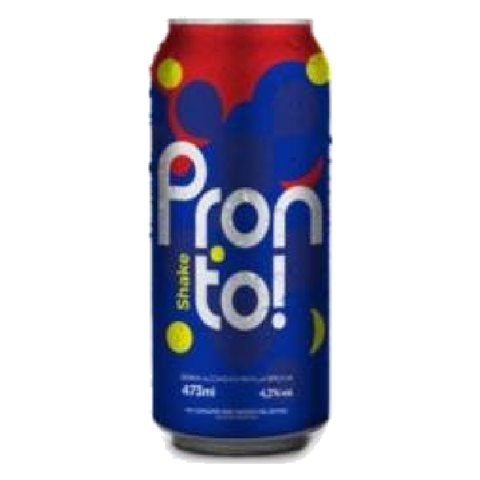
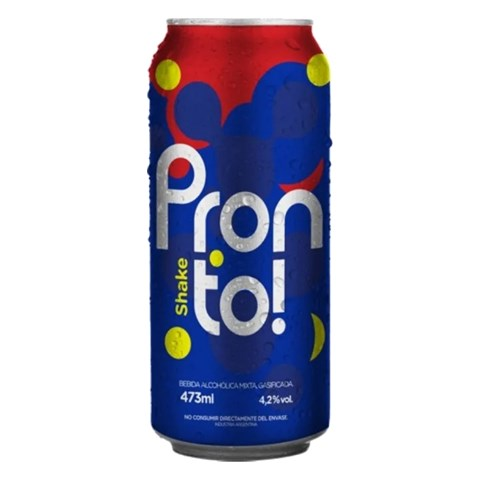
Cepas: fotos de Amarula 375, Pronto Shake lata, Dr Lemon Green Apple (lata y 1L), Red Berries lata y 1882 pomelo

Changed region(s): [[0.2812, 0.0312, 0.7188, 0.9688]]

diff --git a/catalogo-cepas.html b/catalogo-cepas.html
@@ -110,7 +110,7 @@ const esc = s => String(s).replace(/[&<>"]/g, c => ({'&':'&amp;','<':'&lt;','>':
 const fecha = iso => iso ? iso.split('-').reverse().join('/') : '';
 const limpiar = d => d.replace(/(\d)\?/g,'$1°').replace(/\s+/g,' ').trim();   // en Gescom el simbolo de grados llega como '?'
 const marca = d => ((d.match(/GANCIA|MARTINI|DR\.? ?LEMON|TERMA|TRES TORRES|AMARULA|BACARDI|FERNET|1882|PRONTO/i) || ['CEPAS'])[0].toUpperCase());
-const FOTOS_V = '2';   // cambiar cuando se reemplazan las fotos, para que el navegador no muestre las viejas
+const FOTOS_V = '3';   // cambiar cuando se reemplazan las fotos, para que el navegador no muestre las viejas
 const norm = s => String(s).normalize('NFD').replace(/[̀-ͯ]/g,'').toLowerCase();
 // Segmentos tildados: ninguno = se ven todos; uno o varios = solo esos (se combinan con el buscador)
 const elegidos = new Set();
